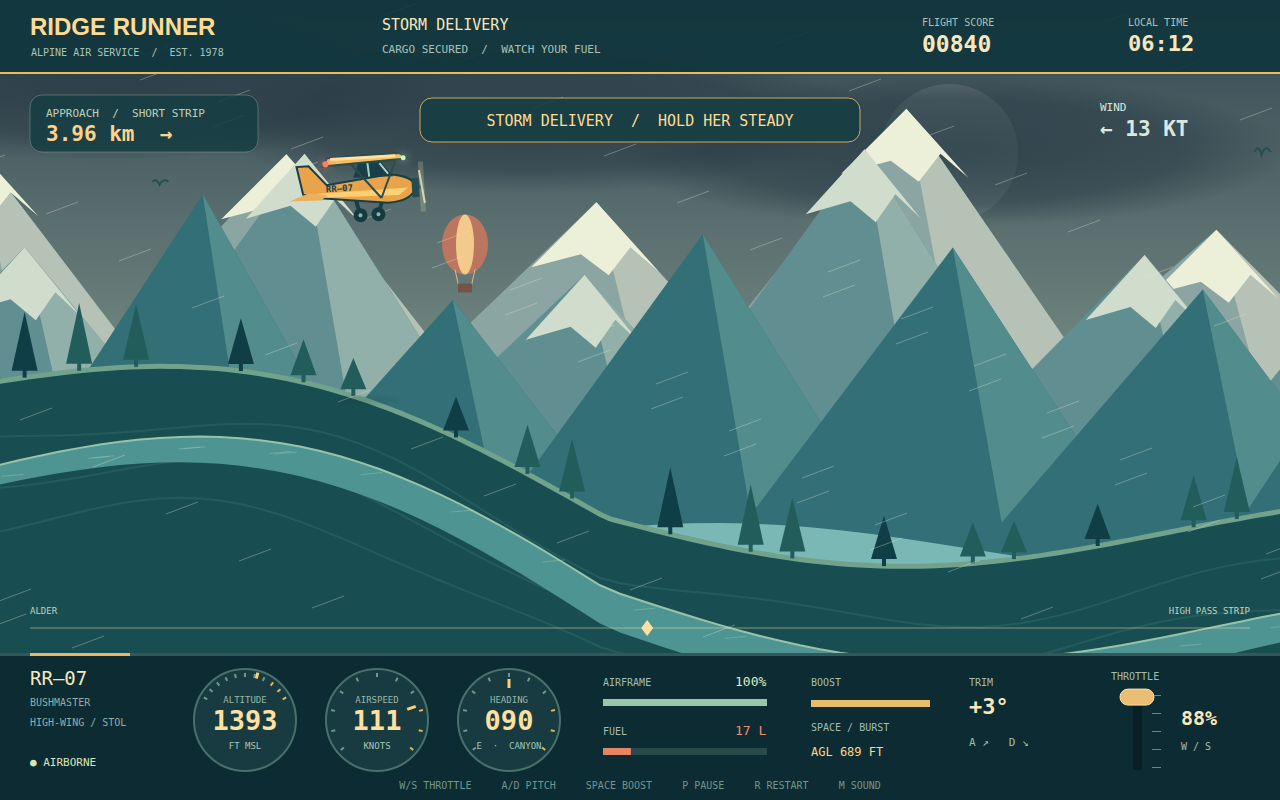
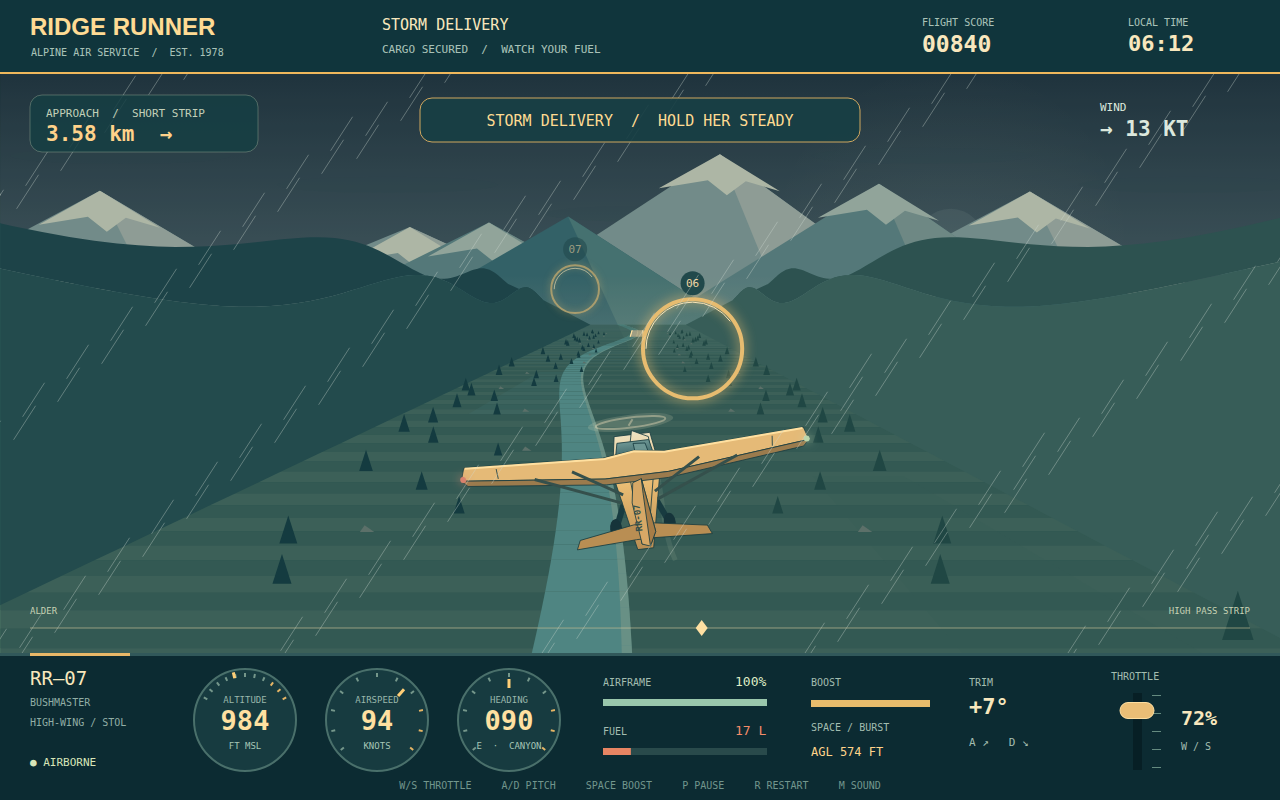
Chase view: pseudo-3D valley mode with rings, storm run and new screenshot set
- New game/src/chase.js: complete chase-view flight model (takeoff, 8 rings,
  ridge/ground damage, runway landing) with a perspective valley renderer,
  rear-view aircraft, weather and HUD facade integration; V toggles modes.
- Screenshots rebuilt around the chase view: golden approach cover with ring
  and runway ahead, low river ring run, storm delivery with low fuel, and the
  side-view canyon run.
- take-shots.mjs now shoots candidates into candidates/ for selection;
  verify-game.mjs loads chase.js in index.html order.

diff --git a/game/src/chase.js b/game/src/chase.js
@@ -1,0 +1,96 @@
+/* Perspective valley flight. Metres in world space, a trailing camera in screen space. */
+RR.Chase=class{
+ constructor(spec,mission){
+  this.spec=spec;this.mission=mission;this.end=spec.length;this.z=125;this.lateral=0;this.altitude=8;this.speed=0;this.throttle=.18;this.fuel=spec.fuel;this.hp=100;this.boost=100;this.bank=0;this.pitch=0;this.sink=0;this.grounded=true;this.stall=false;this.invincible=0;this.time=0;
+  this.rings=Array.from({length:8},(_,i)=>({x:950+i*700,lateral:[-95,130,-150,75,-120,90,-145,125][i],y:[100,260,155,280,85,180,270,105][i],r:62,hit:false}));
+  this.runways=[{x:0,w:600,id:0,name:'ALDER FIELD',fieldElevationFt:410},{x:this.end-600,w:750,id:1,name:mission===1?'HIKER’S REST':'HIGH PASS STRIP',fieldElevationFt:410}];
+  this.planeFacade={};this.worldFacade={spec,mission,end:this.end,rings:this.rings,runways:this.runways,ground:()=>0,runway:x=>this.runwayAt(x),mslFeet:y=>410+y*3.28,wind:(x,t)=>this.hudWindAt(x,t)};
+ }
+ runwayAt(z){return Math.abs(this.lateral)<48?this.runways.find(r=>z>=r.x&&z<=r.x+r.w):undefined;}
+ // Report prevailing wind plus gusts; instantaneous crosswind can pass through zero.
+ hudWindAt(z,t){return this.spec.wind*(.52+Math.sin(t*.8+z*.001)*.12+Math.sin(t*2.7)*.08);}
+ windAt(z,t){return Math.sin(t*.8+z*.001)*this.spec.wind+Math.sin(t*2.7)*this.spec.wind*.35;}
+ damage(amount,g){if(this.invincible>0)return;this.hp=Math.max(0,this.hp-amount);this.invincible=1.6;g.shake=10;g.message='HARD HIT · CHECK AIRFRAME';g.messageTime=2.5;RR.audio.hit();}
+ update(dt,g){
+  const i=RR.input,steer=Number(i.held('d'))-Number(i.held('a')),climb=Number(i.held('arrowup'))-Number(i.held('arrowdown'));this.time=g.time;
+  const powerInput=Number(i.held('w'))-Number(i.held('s'));
+  this.throttle=Math.max(0,Math.min(1,this.throttle+powerInput*dt*.35));
+  if(i.drag)this.throttle=Math.max(0,Math.min(1,(770-i.pointer.y)/84));
+  if(!this.fuel)this.throttle=0;
+  this.boosting=i.held(' ')&&this.boost>0&&this.fuel>0&&!this.grounded;this.boost=Math.max(0,Math.min(100,this.boost+(this.boosting?-42:12)*dt));this.fuel=Math.max(0,this.fuel-dt*(.12+this.throttle*.4+(this.boosting?.6:0)));
+  this.bank+=(steer*.48-this.bank)*Math.min(1,dt*4);this.pitch+=(climb*.38-this.pitch)*Math.min(1,dt*3);
+  this.speed=Math.max(0,this.speed+dt*(this.throttle*49+(this.boosting?65:0)-this.speed*.19-Math.abs(this.pitch)*10));
+  const previousZ=this.z;this.z+=this.speed*dt;this.invincible=Math.max(0,this.invincible-dt);
+  this.stall=!this.grounded&&this.speed<58;
+  const gust=this.windAt(this.z,g.time);this.lateral+=(this.bank*this.speed*.8+(this.grounded?0:gust*.2))*dt;
+  if(this.grounded){this.altitude=8;this.sink=0;if(this.speed>72&&climb>0){this.grounded=false;this.sink=10;}else if(!this.runwayAt(this.z))this.grounded=false;if(this.throttle<.32)this.speed=Math.max(0,this.speed-35*dt);}
+  else{let desired=climb*this.speed*.36+(this.speed-110)*.035+(this.mission===2?gust*.13:0)-(this.stall?45:0);this.sink+=(desired-this.sink)*Math.min(1,dt*2);this.altitude+=this.sink*dt;
+   if(this.altitude<=8){const strip=this.runwayAt(this.z);if(strip&&Math.abs(this.sink)<20&&this.speed<150&&Math.abs(this.bank)<.2&&Math.abs(this.pitch)<.24){this.grounded=true;this.altitude=8;this.sink=0;g.score+=350;g.message='CLEAN TOUCHDOWN  +350';g.messageTime=4;RR.audio.ring();if(strip.id===1){if(this.mission!==0||g.rings===8)g.finish(true);else g.finish(false,'You missed a ring. Follow the golden trail.');}}else{this.damage(32+Math.abs(this.sink)*.65,g);this.altitude=16;this.sink=30;this.speed*=.7;}}
+  }
+  if(Math.abs(this.lateral)>470&&this.altitude<310){this.damage(28,g);this.lateral=Math.sign(this.lateral)*465;this.bank*=-.5;}
+  if(this.altitude>650){this.altitude=650;this.sink=Math.min(0,this.sink);}
+  for(const r of this.rings)if(!r.hit&&previousZ<=r.x&&this.z>=r.x&&Math.hypot(this.lateral-r.lateral,this.altitude-r.y)<r.r-8){r.hit=true;g.rings++;g.score+=200;g.message=`RING ${g.rings} / 8  +200`;g.messageTime=2;RR.audio.ring();}
+  if(this.hp<=0)g.finish(false,'The canyon won this round. Give the ridge more room.');
+  if(this.z>this.end+450)g.finish(false,'Strip missed. Slow down and descend earlier.');
+  if(!this.fuel&&this.speed<25)g.finish(false,'Out of fuel. Use a steady cruise throttle.');
+ }
+ projectPoint(x,y,z){const depth=z-this.z+230,scale=520/Math.max(12,depth);return{x:640+(x-this.lateral)*scale,y:300+(this.altitude+65-y)*scale,scale};}
+ polygon(c,points,color){c.fillStyle=color;c.beginPath();points.forEach((p,i)=>i?c.lineTo(p.x,p.y):c.moveTo(p.x,p.y));c.closePath();c.fill();}
+ worldPolygon(c,points,color){this.polygon(c,points.map(p=>this.projectPoint(...p)),color);}
+ drawSky(c){const storm=this.mission===2,sky=c.createLinearGradient(0,74,0,580);sky.addColorStop(0,storm?'#243640':'#477b83');sky.addColorStop(.48,storm?'#52666b':'#c6c2a0');sky.addColorStop(1,storm?'#788780':'#f0d1a0');c.fillStyle=sky;c.fillRect(0,0,1280,800);
+  const glow=c.createRadialGradient(950,242,12,950,242,180);glow.addColorStop(0,storm?'#a5b7b012':'#ffe7b580');glow.addColorStop(1,'#ffe6b000');c.fillStyle=glow;c.fillRect(760,74,400,370);c.fillStyle=storm?'#96aaa328':'#ffe3ab';c.beginPath();c.arc(950,242,34,0,7);c.fill();
+  for(let j=0;j<5;j++){c.fillStyle=storm?'#344b5528':'#eee1bd28';c.beginPath();c.ellipse(120+j*267,155+j%3*29,110,8,0,0,7);c.fill();}
+ }
+ drawFarMountains(c){
+  for(let layer=0;layer<3;layer++){const base=350+layer*20,spacing=310+layer*80;for(let n=-1;n<5;n++){const x=n*spacing-this.lateral*(.03+layer*.035),peak=190+layer*30+Math.sin(n*2.1+layer)*42;
+   this.polygon(c,[{x:x-200,y:base},{x:x+100,y:peak},{x:x+370,y:base}],['#8da6a0','#678e8c','#3d7075'][layer]);this.polygon(c,[{x:x+100,y:peak},{x:x+180,y:base},{x:x+370,y:base}],['#b1bbb0','#88a29a','#548480'][layer]);
+   if(layer<2)this.polygon(c,[{x:x+100,y:peak},{x:x+39,y:peak+34},{x:x+88,y:peak+26},{x:x+107,y:peak+41},{x:x+126,y:peak+27},{x:x+160,y:peak+37}],layer?'#b5c6b7':'#d9ddc4');}}
+  const haze=c.createLinearGradient(0,275,0,385);haze.addColorStop(0,'#dbd5b000');haze.addColorStop(.5,'#c8cdb434');haze.addColorStop(1,'#c8cdb400');c.fillStyle=haze;c.fillRect(0,275,1280,110);
+ }
+ riverCentre(z){return -110+Math.sin(z*.0017)*100;}
+ drawValleyFloor(c){
+  c.fillStyle='#325b56';c.fillRect(0,365,1280,300);
+  const depths=[];for(let d=20;d<5200;d+=Math.min(55,Math.max(4,d*.065)))depths.push(d);depths.push(5200);
+  for(let j=depths.length-2;j>=0;j--){const a=this.z-200+depths[j],b=this.z-200+depths[j+1];this.worldPolygon(c,[[-1600,0,a],[1600,0,a],[1600,0,b],[-1600,0,b]],j%2?'#3d665b':'#486f62');
+   // Clip broad world-space fields to each depth strip so the river and slopes stay in front.
+   for(const [x,z,w,length,color] of [[-350,900,190,480,'#41695d'],[210,2100,210,650,'#3d665b'],[-370,3300,230,720,'#548480'],[235,4600,185,560,'#41695d'],[-340,5550,190,650,'#548480'],[210,6300,230,580,'#3d665b']]){const near=Math.max(a,z),far=Math.min(b,z+length);if(near<far){c.save();c.globalAlpha=.23;this.worldPolygon(c,[[x+25*(near-z)/length,0,near],[x+w-35*(near-z)/length,0,near],[x+w-35*(far-z)/length,0,far],[x+25*(far-z)/length,0,far]],color);c.restore();}}
+   const ra=this.riverCentre(a),rb=this.riverCentre(b);this.worldPolygon(c,[[ra-34,1,a],[ra+34,1,a],[rb+34,1,b],[rb-34,1,b]],'#609e98');this.worldPolygon(c,[[ra+27,2,a],[ra+34,2,a],[rb+34,2,b],[rb+27,2,b]],'#a1b9a080');
+
+  }
+  // Continuous faces avoid antialiased seams between narrow depth tiles.
+  for(const side of [-1,1]){const toe=[],ridge=[],crest=[];for(const d of depths){const z=this.z-200+d,h=290+Math.sin(z*.003)*65;toe.push([side*480,0,z]);ridge.push([side*950,h,z]);crest.push([side*1300,h+160,z]);}this.worldPolygon(c,[...ridge,...crest.slice().reverse()],side<0?'#21494e':'#355d58');this.worldPolygon(c,[...toe,...ridge.slice().reverse()],side<0?'#285454':'#426b62');}
+  for(let n=Math.ceil((this.z+3600)/73);n>=Math.floor((this.z-140)/73);n--){const z=n*73,hash=Math.sin(n*127.1)*43758.5453,f=hash-Math.floor(hash);for(const side of [-1,1]){const x=side*(170+f*280);const p=this.projectPoint(x,0,z),h=(19+f*16)*p.scale,w=h*.32;if(p.y>680)continue;this.polygon(c,[{x:p.x,y:p.y-h},{x:p.x-w,y:p.y},{x:p.x+w,y:p.y}],side<0?'#153f43':'#254f48');if(n%4===0){const r=this.projectPoint(x*.8,0,z+26);this.polygon(c,[{x:r.x-8*r.scale,y:r.y},{x:r.x-3*r.scale,y:r.y-7*r.scale},{x:r.x+7*r.scale,y:r.y}], '#718378');}}}
+ }
+ drawRunways(c){for(const r of this.runways){if(r.x+r.w<this.z-180||r.x-this.z>4200)continue;const start=Math.max(r.x,this.z-180),end=r.x+r.w;
+   // Clip all markings to a single coplanar trapezoid, including at long range.
+   c.save();this.worldPolygon(c,[[-48,2,start],[48,2,start],[48,2,end],[-48,2,end]],'#9b9d85');c.clip();
+   for(let z=r.x;z<end;z+=60){const near=Math.max(start,z),far=Math.min(end,z+26);if(near<far)this.worldPolygon(c,[[-2,2,near],[2,2,near],[2,2,far],[-2,2,far]],'#eee0b2');if(z<start)continue;for(const x of [-44,44]){const p=this.projectPoint(x,2,z);c.fillStyle='#ffe1a0';c.beginPath();c.arc(p.x,p.y,Math.max(.65,p.scale*2),0,7);c.fill();}}
+   c.restore();
+  }
+ }
+ drawRingsAhead(c){
+  const visible=this.rings.map((r,n)=>({r,n,d:r.x-this.z})).filter(({r,d})=>!r.hit&&d>=-25&&d<=3000).sort((a,b)=>a.d-b.d).slice(0,3).map((item,i)=>{const p=this.projectPoint(item.r.lateral,item.r.y,item.r.x),radius=item.r.r*p.scale;return {...item,p,radius,badgeY:p.y-radius-16,opacity:i===0?1:i===1?.58:.16};});
+  for(let i=1;i<visible.length;i++){const ring=visible[i];if(visible.slice(0,i).some(near=>Math.hypot(near.p.x-ring.p.x,near.badgeY-ring.badgeY)<46))ring.opacity=Math.min(ring.opacity,.35);if(visible.slice(0,i).some(near=>Math.hypot(near.p.x-ring.p.x,near.p.y-ring.p.y)<near.radius+ring.radius+12))ring.opacity=0;}
+  for(const {n,p,radius,opacity} of visible.reverse()){c.save();c.globalAlpha=opacity;c.strokeStyle='#e7bc70';c.lineWidth=Math.max(2,5*p.scale);c.shadowColor=c.strokeStyle;c.shadowBlur=12*opacity;c.beginPath();c.ellipse(p.x,p.y,radius,radius,0,0,7);c.stroke();c.shadowBlur=0;c.strokeStyle='#f9e5b6';c.lineWidth=1;c.beginPath();c.arc(p.x,p.y,Math.max(0,radius-3),Math.PI,Math.PI*1.8);c.stroke();c.fillStyle='#21494b';c.beginPath();c.arc(p.x,p.y-radius-16,12,0,7);c.fill();c.fillStyle='#efd5a0';c.font='11px monospace';c.textAlign='center';c.fillText(String(n+1).padStart(2,'0'),p.x,p.y-radius-12);c.restore();}
+ }
+ drawChasePlane(c){
+  const ground=this.projectPoint(this.lateral,0,this.z+30),fade=Math.max(0,1-this.altitude/400);c.fillStyle=`rgba(9,34,37,${fade*.24})`;c.beginPath();c.ellipse(ground.x,ground.y,80*fade+10,12*fade+2,0,0,7);c.fill();
+  c.save();c.translate(640+this.bank*22,480+this.pitch*28);c.rotate(this.bank);const planeScale=1+Math.max(0,100-this.altitude)*.0015;c.scale(planeScale,planeScale);const poly=(p,color)=>{this.polygon(c,p.map(([x,y])=>({x,y})),color);c.strokeStyle='#183b40';c.lineWidth=.8;c.stroke();};const body=c.createLinearGradient(0,-54,0,65);body.addColorStop(0,'#eee4c4');body.addColorStop(.45,'#e9bc73');body.addColorStop(1,'#b98e53');
+  c.strokeStyle='#dce5cc18';c.lineWidth=5;c.beginPath();c.moveTo(10,-36);c.bezierCurveTo(30,-10,15,40,28,80);c.stroke();
+  c.fillStyle='#eee4c42a';c.beginPath();c.ellipse(0,-62,43,8,0,0,7);c.fill();c.strokeStyle='#f4e4bd66';c.lineWidth=2;c.beginPath();c.ellipse(0,-62,35,5,0,0,7);c.stroke();c.beginPath();const blade=Math.sin(this.time*48)*38;c.moveTo(-blade,-65);c.lineTo(blade,-59);c.stroke();
+  c.strokeStyle='#183b40';c.lineWidth=6;for(const s of [-1,1]){c.beginPath();c.moveTo(s*13,10);c.lineTo(s*26,40);c.stroke();c.fillStyle='#16343a';c.beginPath();c.ellipse(s*27,42,6,10,0,0,7);c.fill();}
+  poly([[-18,-50],[18,-50],[24,-13],[8,65],[-8,65],[-24,-13]],body);poly([[0,-54],[16,-46],[18,-15],[3,60],[-3,60],[-8,-20]],body);
+  const glass=c.createLinearGradient(0,-43,0,-20);glass.addColorStop(0,'#6d9693');glass.addColorStop(1,'#254d53');poly([[-16,-43],[16,-43],[21,-20],[-21,-20]],glass);poly([[0,-41],[12,-40],[16,-23],[2,-24]],'#6d9693');
+  poly([[-175,-24],[-171,-37],[-32,-30],[0,-34],[32,-30],[171,-37],[175,-24],[32,-9],[-32,-9]],'#e5ba77');poly([[-175,-24],[-32,-9],[32,-9],[175,-24],[169,-18],[31,-3],[-31,-3],[-169,-18]],'#9b7b4d');
+  c.strokeStyle='#ffe0a0';c.lineWidth=2;c.beginPath();c.moveTo(-170,-36);c.lineTo(-30,-29);c.lineTo(0,-33);c.lineTo(30,-29);c.lineTo(170,-36);c.stroke();
+  c.strokeStyle='#35504c';c.lineWidth=3;for(const s of [-1,1]){c.beginPath();c.moveTo(s*18,17);c.lineTo(s*102,-17);c.moveTo(s*16,9);c.lineTo(s*64,-20);c.stroke();c.lineWidth=1;c.beginPath();c.moveTo(s*139,-32);c.lineTo(s*138,-22);c.stroke();c.lineWidth=3;}
+  poly([[-9,40],[-64,49],[-68,58],[-8,55],[8,55],[68,58],[64,49],[9,40]],'#b98e53');poly([[-3,60],[-8,18],[-5,-2],[4,-5],[12,49],[5,63]],'#d7a866');poly([[4,-5],[12,49],[5,63],[4,10]],'#a77d47');
+  c.save();c.translate(-1,30);c.rotate(-Math.PI/2);c.fillStyle='#35504b';c.font='bold 9px monospace';c.fillText('RR-07',-17,0);c.restore();
+  for(const [x,color] of [[-173,'#d9826d'],[173,'#b9d6ac']]){c.fillStyle=color;c.shadowColor=color;c.shadowBlur=10;c.beginPath();c.arc(x,-25,3,0,7);c.fill();}c.restore();
+ }
+ drawWeather(c){if(this.mission===2){c.strokeStyle='#cfdbd35c';c.lineWidth=1;for(let n=0;n<190;n++){const x=((n*173-this.time*260)%1340+1340)%1340,y=(n*79+this.time*390)%670;c.beginPath();c.moveTo(x,y);c.lineTo(x-22,y+34);c.stroke();}}if(this.boosting&&this.altitude<100){c.strokeStyle='#ddd7ae33';for(let n=0;n<12;n++){let x=n*117;c.beginPath();c.moveTo(x,580);c.lineTo(x+(x-640)*.08,620);c.stroke();}}}
+ draw(c,g){this.time=g.time;c.save();c.beginPath();c.rect(0,74,1280,579);c.clip();if(g.shake)c.translate(Math.sin(g.time*95)*g.shake,Math.cos(g.time*77)*g.shake*.5);if(this.mission===2)c.translate(Math.sin(g.time*19)*1.4,Math.cos(g.time*23));this.drawSky(c);this.drawFarMountains(c);this.drawValleyFloor(c);if(this.mission===2){c.fillStyle='#142c3838';c.fillRect(0,74,1280,579);}this.drawRunways(c);this.drawRingsAhead(c);this.drawChasePlane(c);this.drawWeather(c);c.restore();
+  Object.assign(this.planeFacade,{x:this.z,y:this.altitude,vx:this.speed,pitch:this.pitch,grounded:this.grounded,throttle:this.throttle,fuel:this.fuel,hp:this.hp,boost:this.boost,stall:this.stall});const plane=g.plane,world=g.world;try{g.plane=this.planeFacade;g.world=this.worldFacade;RR.ui.draw(c,g);}finally{g.plane=plane;g.world=world;}
+
+ }
+};

diff --git a/game/src/main.js b/game/src/main.js
@@ -1,10 +1,11 @@
 /* Fixed-step simulation with independent presentation. Classic scripts support file://. */
 (()=>{
  const canvas=document.getElementById('game'),c=canvas.getContext('2d',{alpha:false});
- const game={state:'title',selected:0,best:0,score:0,rings:0,time:0,shake:0,message:'',messageTime:0,particles:[],camera:{x:0,y:0},posed:false,
- start(mission=this.selected,seed=7){this.selected=mission;this.world=new RR.World(mission,seed);this.plane=new RR.Plane(this.world);this.state='play';this.time=0;this.score=0;this.rings=0;this.shake=0;this.particles=[];this.result='';this.message='W / POWER UP     A / ROTATE AT 50 KT';this.messageTime=7;this.camera={x:this.plane.x-365,y:0};},
+ const game={mode:'side',state:'title',selected:0,best:0,score:0,rings:0,time:0,shake:0,message:'',messageTime:0,particles:[],camera:{x:0,y:0},posed:false,
+ start(mission=this.selected,seed=7){this.selected=mission;this.world=new RR.World(mission,seed);this.plane=new RR.Plane(this.world);this.chase=new RR.Chase(this.world.spec,mission);this.state='play';this.time=0;this.score=0;this.rings=0;this.shake=0;this.particles=[];this.result='';this.message='W / POWER UP     A / ROTATE AT 50 KT';if(this.mode==='chase')this.message='W / POWER UP     ↑ / ROTATE     A/D / BANK';this.messageTime=7;this.camera={x:this.plane.x-365,y:0};},
  finish(won,reason){if(this.state!=='play')return;this.state=won?'win':'over';if(won){let bonus=Math.max(0,Math.round(1000-this.time*3));this.score+=bonus;this.result=`Safe arrival. +${bonus} time bonus. Welcome home, pilot.`;RR.audio.win();}else{this.result=reason;RR.audio.hit();}this.best=Math.max(this.best,this.score);try{localStorage.setItem('ridge-runner-best',String(this.best));}catch(e){}},
  update(dt){const i=RR.input;
+  if(i.tap('v')&&(this.state==='play'||this.state==='title')){this.mode=this.mode==='side'?'chase':'side';this.posed=false;this.start();}
   if(i.tap('m'))RR.audio.muted=!RR.audio.muted;
   if(i.tap('escape')){this.state='title';this.posed=false;}
   if(i.tap('r')){this.posed=false;this.start();}
@@ -14,10 +15,10 @@
    if(i.pointer.click){let {x,y}=i.pointer;if(x>=754&&x<=1215&&y>=123&&y<=503)this.selected=Math.min(2,Math.floor((y-123)/133));if(x>=65&&x<=377&&y>=428&&y<=485)this.start();}
    if(i.tap('enter'))this.start();
   }else if(['win','over','pause'].includes(this.state)&&i.pointer.click&&i.pointer.x>=465&&i.pointer.x<=815&&i.pointer.y>=423&&i.pointer.y<=472){if(this.state==='pause')this.state='play';else this.start();}
-  if(this.state==='play'&&!this.posed){this.time+=dt;this.plane.update(dt,this);this.messageTime=Math.max(0,this.messageTime-dt);this.shake=Math.max(0,this.shake-dt*22);this.camera.x+=(this.plane.x-365-this.camera.x)*Math.min(1,dt*4);this.camera.y+=(Math.max(0,this.plane.y-370)-this.camera.y)*Math.min(1,dt*2);for(const p of this.particles){p.x+=p.vx*dt;p.y+=p.vy*dt;p.life-=dt;}this.particles=this.particles.filter(p=>p.life>0);}
-  RR.audio.update(this.plane,this.state==='play'&&!this.posed);i.end();
+  if(this.state==='play'&&!this.posed){this.time+=dt;if(this.mode==='chase')this.chase.update(dt,this);else this.plane.update(dt,this);this.messageTime=Math.max(0,this.messageTime-dt);this.shake=Math.max(0,this.shake-dt*22);if(this.mode==='side'){this.camera.x+=(this.plane.x-365-this.camera.x)*Math.min(1,dt*4);this.camera.y+=(Math.max(0,this.plane.y-370)-this.camera.y)*Math.min(1,dt*2);}for(const p of this.particles){p.x+=p.vx*dt;p.y+=p.vy*dt;p.life-=dt;}this.particles=this.particles.filter(p=>p.life>0);}
+  RR.audio.update(this.mode==='chase'?this.chase:this.plane,this.state==='play'&&!this.posed);i.end();
  },
- draw(){c.save();if(this.shake)c.translate(Math.sin(this.time*95)*this.shake,Math.cos(this.time*77)*this.shake*.5);this.world.draw(c,this.camera,this.time);for(const p of this.particles){c.fillStyle='#ffdf8e';c.globalAlpha=p.life;c.fillRect(p.x-this.camera.x,560-(p.y-this.camera.y),4,4);}c.globalAlpha=1;this.plane.draw(c,this.camera,this.time);c.restore();RR.ui.draw(c,this);if(this.state==='title')RR.ui.title(c,this);else if(['pause','win','over'].includes(this.state))RR.ui.overlay(c,this);}
+ draw(){if(this.mode==='chase')this.chase.draw(c,this);else{c.save();if(this.shake)c.translate(Math.sin(this.time*95)*this.shake,Math.cos(this.time*77)*this.shake*.5);this.world.draw(c,this.camera,this.time);for(const p of this.particles){c.fillStyle='#ffdf8e';c.globalAlpha=p.life;c.fillRect(p.x-this.camera.x,560-(p.y-this.camera.y),4,4);}c.globalAlpha=1;this.plane.draw(c,this.camera,this.time);c.restore();RR.ui.draw(c,this);}if(this.state==='title')RR.ui.title(c,this);else if(['pause','win','over'].includes(this.state))RR.ui.overlay(c,this);}
  };
  try{game.best=Math.max(0,Number(localStorage.getItem('ridge-runner-best'))||0);}catch(e){}
  RR.game=game;RR.input.init(canvas);game.start();game.state='title';RR.pose(game);canvas.focus();let last=0,acc=0;

diff --git a/game/src/shots.js b/game/src/shots.js
@@ -1,5 +1,5 @@
 /* Poses use the actual world, plane and HUD renderers. No screenshot-only artwork. */
-RR.pose=function(g){const query=new URLSearchParams(location.search),name=query.get('shot');if(!name)return false;const seed=Number(query.get('seed')||7);g.start(name==='storm'?2:name==='landing'?1:0,Number.isFinite(seed)?seed:7);g.posed=true;g.time=18;const p=g.plane;
+RR.pose=function(g){const query=new URLSearchParams(location.search),name=query.get('shot');if(!name)return false;const seed=Number(query.get('seed')||7);if(name.startsWith('chase')){g.mode='chase';g.start(name==='chase-storm'?2:0,Number.isFinite(seed)?seed:7);const p=g.chase;g.posed=true;g.time=18;p.z=4850;p.altitude=165;p.speed=145;p.throttle=.72;p.fuel=64;p.grounded=false;p.lateral=15;p.pitch=.28;g.rings=5;g.score=1240;p.rings.slice(0,5).forEach(r=>r.hit=true);p.rings[5].x=5100;p.rings[6].x=5800;p.rings[7].x=6500;g.message='HIGH PASS APPROACH  /  FOLLOW THE GOLD';if(name==='chase-low'){p.z=4100;p.altitude=55;p.lateral=p.riverCentre(p.z);p.rings[5].x=4310;p.rings[5].y=65;p.rings[5].lateral=p.lateral;p.rings[7].y=280;p.rings[7].lateral=150;g.message='RIVER RUN  /  KEEP YOUR WINGS LEVEL';}if(name==='chase-storm'){p.z=4680;p.altitude=175;p.lateral=25;p.pitch=.12;p.fuel=17;p.bank=-.12;g.score=840;g.message='STORM DELIVERY  /  HOLD HER STEADY';}g.messageTime=99;return true;}g.start(name==='storm'?2:name==='landing'?1:0,Number.isFinite(seed)?seed:7);g.posed=true;g.time=18;const p=g.plane;
  if(name==='title'){g.state='title';p.x=1600;p.y=340;p.pitch=.08;p.vx=145;p.grounded=false;}
  else if(name==='takeoff'){p.x=290;p.y=110;p.vx=79;p.throttle=.94;p.pitch=.06;p.grounded=true;g.message='ALDER FIELD  /  CLEAR FOR TAKEOFF';}
  else if(name==='canyon'){p.x=2920;p.y=g.world.ground(p.x)+76;p.vx=187;p.pitch=-.07;p.throttle=.78;p.grounded=false;g.rings=3;g.score=600;g.world.rings.slice(0,3).forEach(r=>r.hit=true);g.message='LOW PASS  /  MIND THE RIDGELINE';}

diff --git a/game/index.html b/game/index.html
@@ -1,5 +1,5 @@
 <!doctype html>
 <html lang="en"><head><meta charset="utf-8"><meta name="viewport" content="width=device-width,initial-scale=1"><meta name="theme-color" content="#103f44"><title>RIDGE RUNNER · Alpine Air Service</title><style>
 *{box-sizing:border-box}html,body{margin:0;width:100%;height:100%;overflow:hidden;background:#102f35;color:#fff3d6;font-family:Arial,sans-serif}canvas{display:block;width:100%;height:100%;object-fit:contain;outline:none}#access{position:absolute;left:-9999px}
-</style></head><body><div id="access">RIDGE RUNNER. Use 1, 2, or 3 to choose a mission, Enter to fly. W/S throttle, A/D pitch, Space boost, P pause, R restart, Escape mission menu. Drag the throttle on the right of the instrument panel.</div><canvas id="game" width="1280" height="800" tabindex="0" aria-label="Ridge Runner canyon flight game"></canvas>
-<script src="src/audio.js"></script><script src="src/input.js"></script><script src="src/world.js"></script><script src="src/plane.js"></script><script src="src/hud.js"></script><script src="src/shots.js"></script><script src="src/main.js"></script></body></html>
+</style></head><body><div id="access">RIDGE RUNNER. Use 1, 2, or 3 to choose a mission, Enter to fly. W/S throttle, A/D pitch, Space boost, P pause, R restart, Escape mission menu. V switches between side and chase views and restarts the mission. Chase: A/D bank, ArrowUp/ArrowDown climb and descend, W/S throttle, Space boost. Drag the throttle on the right of the instrument panel.</div><canvas id="game" width="1280" height="800" tabindex="0" aria-label="Ridge Runner canyon flight game"></canvas>
+<script src="src/audio.js"></script><script src="src/input.js"></script><script src="src/world.js"></script><script src="src/plane.js"></script><script src="src/hud.js"></script><script src="src/chase.js"></script><script src="src/shots.js"></script><script src="src/main.js"></script></body></html>
